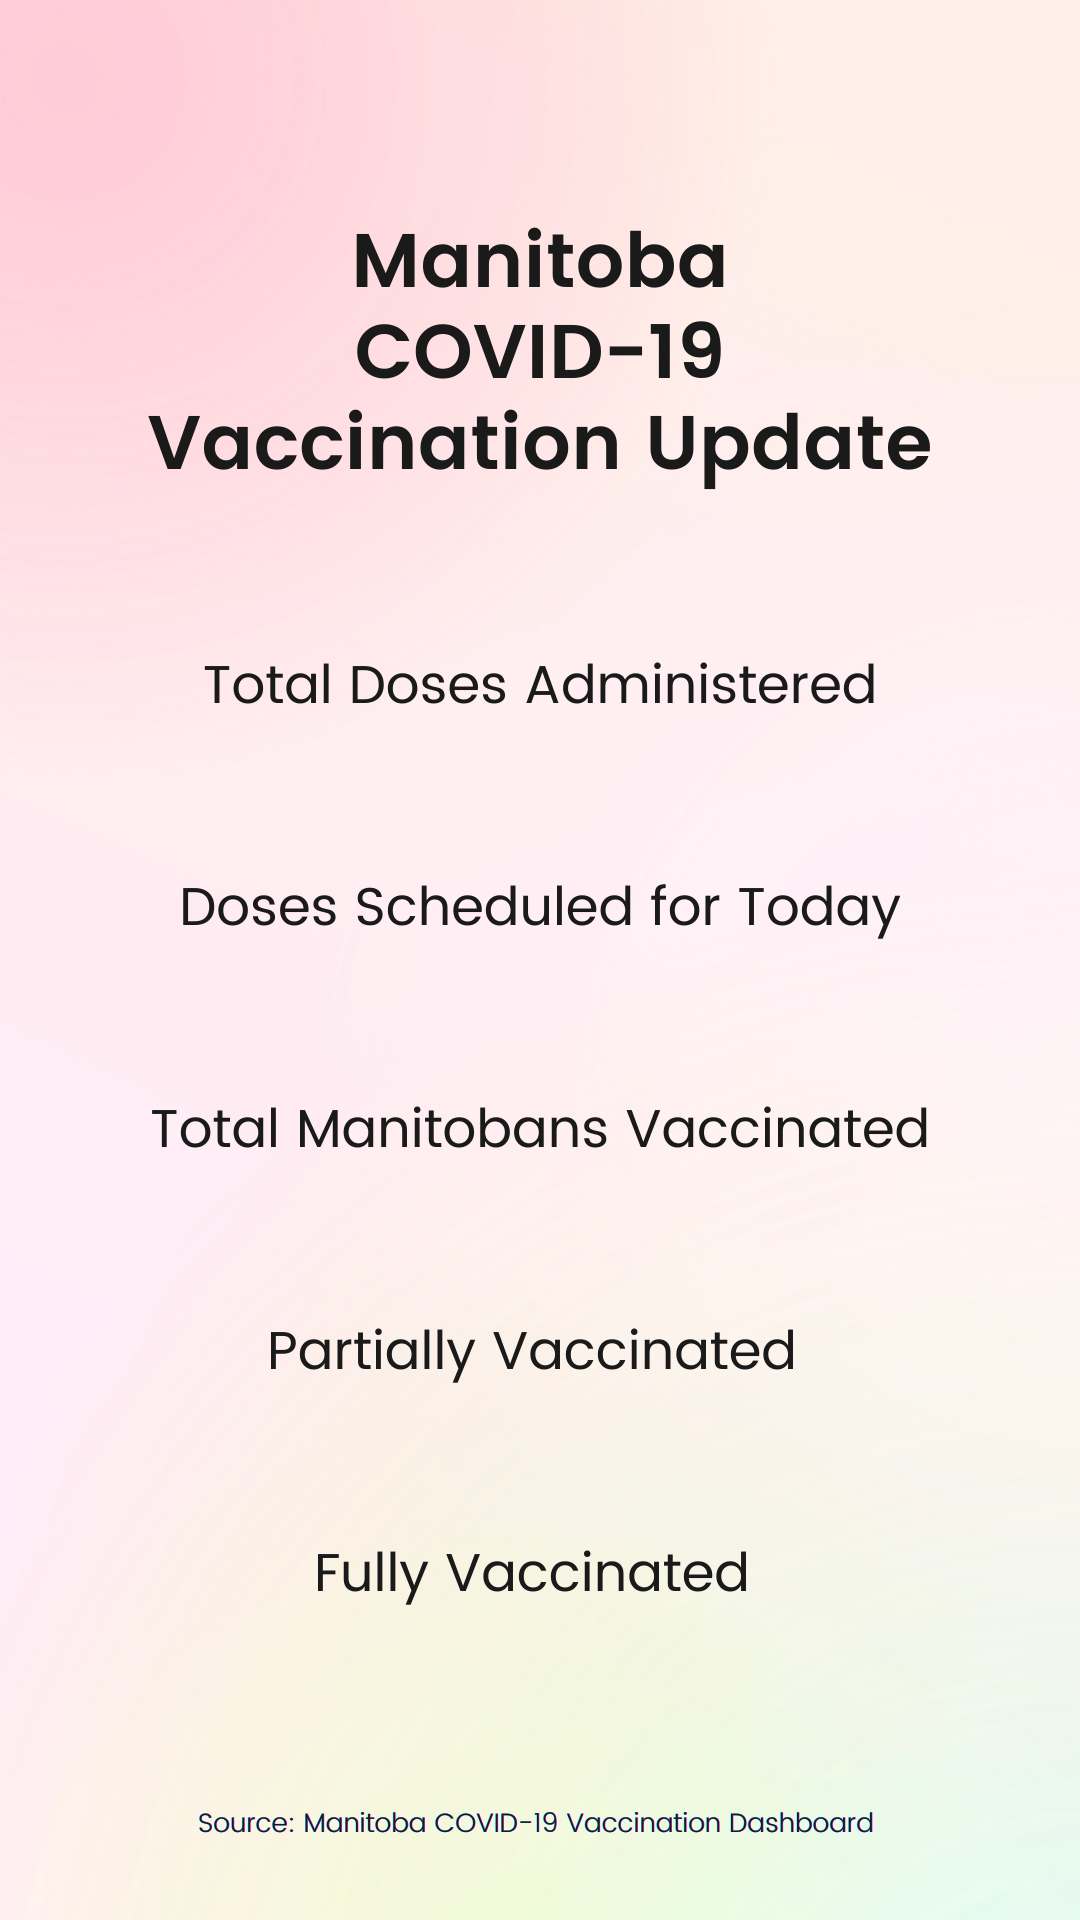
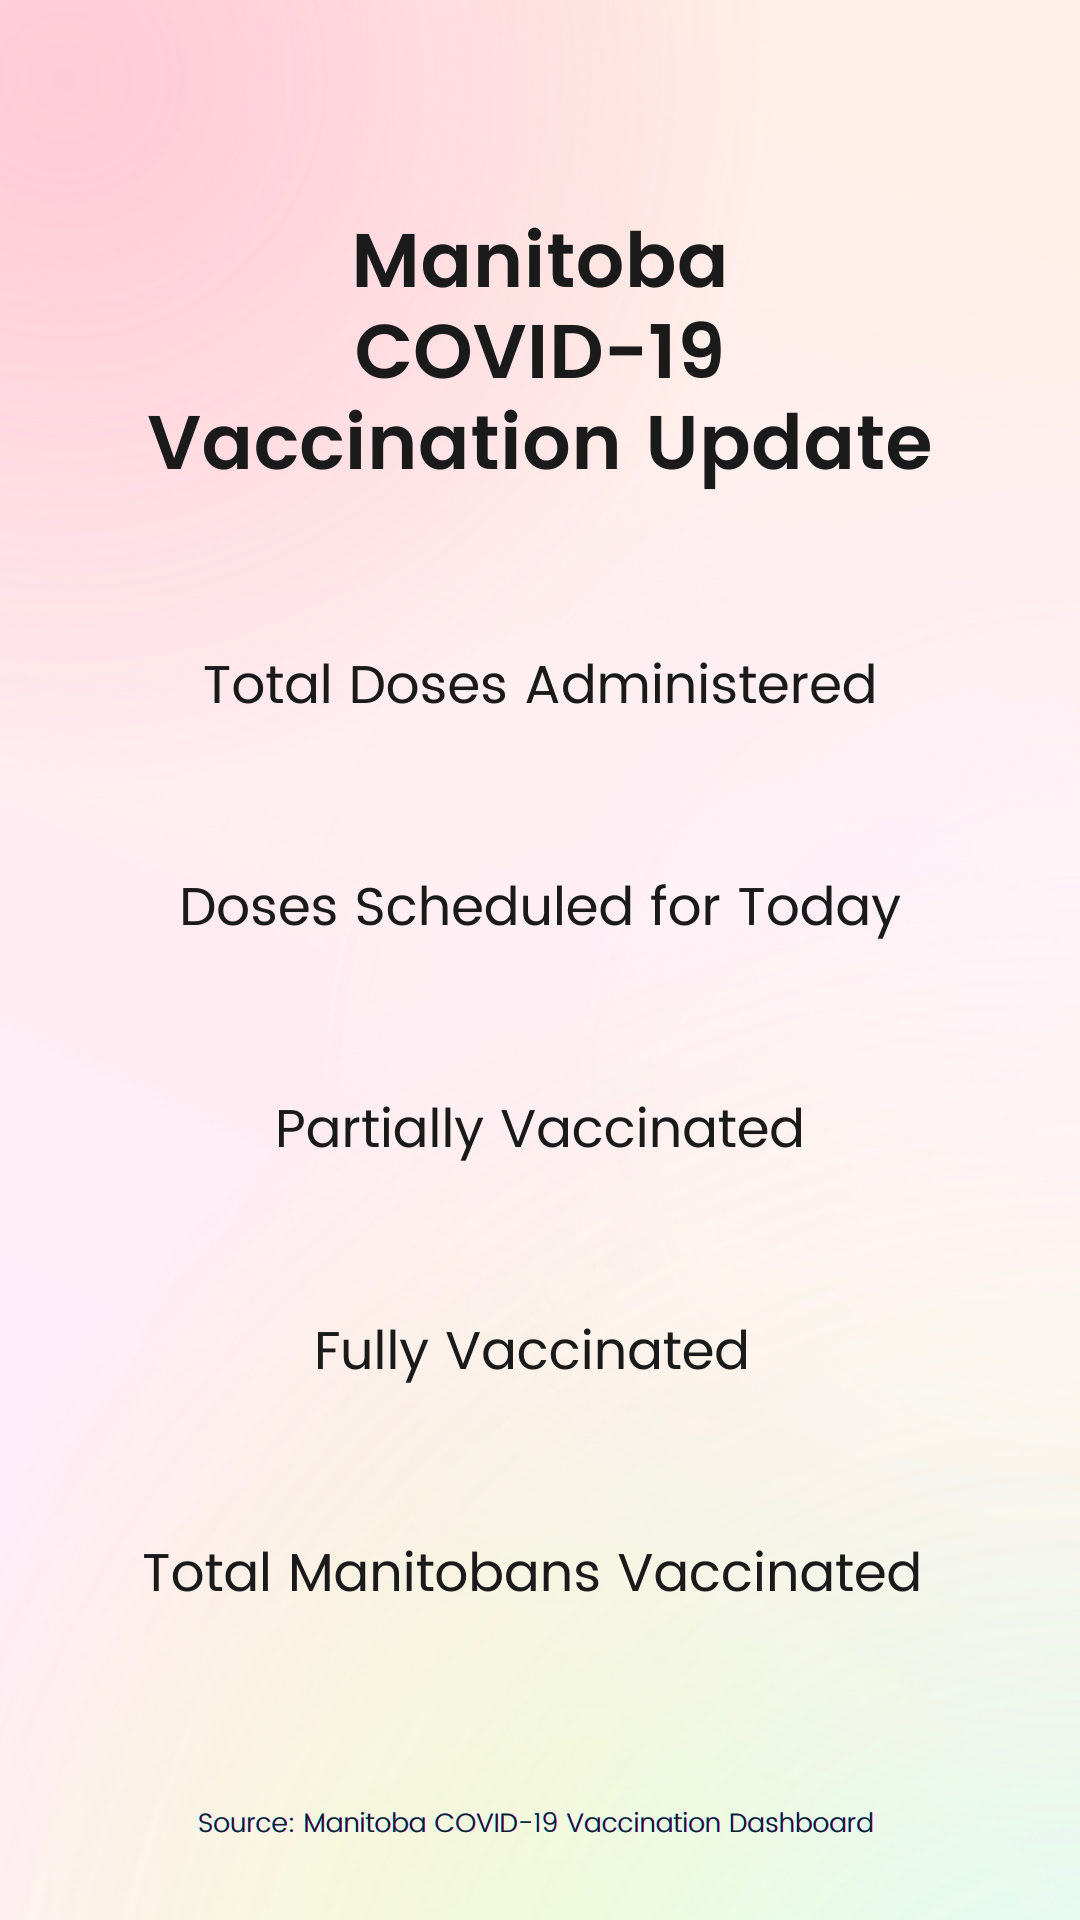
Update template and ask for new deaths

Changed region(s): [[0.1528, 0.5625, 0.8556, 0.625], [0.1528, 0.8125, 0.8556, 0.8438], [0.2444, 0.6875, 0.7333, 0.7188]]

diff --git a/src/services/image.py b/src/services/image.py
@@ -10,7 +10,7 @@ class ImageService:
         self.font = ImageFont.truetype("./resources/Poppins-Light.ttf", 60)
         self.date_font = ImageFont.truetype("./resources/Poppins-Light.ttf", 40)
 
-    def get_daily_cases_image(self):
+    def get_daily_cases_image(self, new_deaths):
         self.image = Image.open("./resources/template-cases.png")
         self.draw = ImageDraw.Draw(self.image)
         self.width, self.height = self.image.size
@@ -21,7 +21,7 @@ class ImageService:
         self.__write_active_cases()
         self.__write_total_cases()
         self.__write_recovered()
-        self.__write_deaths()
+        self.__write_deaths(new_deaths)
 
         return self.image
 
@@ -44,7 +44,7 @@ class ImageService:
         msg = str(self.data["Last_Update"])
     
         w, h = self.draw.textsize(msg, font=self.date_font)
-        size = ((self.width-w)/2, 485) # 225
+        size = ((self.width-w)/2, 485) # delta = 225
 
         self.draw.text(size, msg, fill="black", font=self.date_font)
 
@@ -52,7 +52,7 @@ class ImageService:
         msg = str('{:,}'.format(self.data["Total_Doses_Administered"]))
     
         w, h = self.draw.textsize(msg, font=self.font)
-        size = ((self.width-w)/2, 725) # 225
+        size = ((self.width-w)/2, 725)
 
         self.draw.text(size, msg, fill="black", font=self.font)
 
@@ -60,7 +60,7 @@ class ImageService:
         msg = str('{:,}'.format(self.data["New_Cases"]))
     
         w, h = self.draw.textsize(msg, font=self.font)
-        size = ((self.width-w)/2, 725) # 225
+        size = ((self.width-w)/2, 725)
 
         self.draw.text(size, msg, fill="black", font=self.font)
     
@@ -80,14 +80,6 @@ class ImageService:
 
         self.draw.text(size, msg, fill="black", font=self.font)
 
-    def __write_total_vaxx(self):
-        msg = str('{:,}% (18+) / {:,}% (12+)'.format(self.data["Per_cent_All_Immunized_18"], self.data["Per_cent_All_Immunized_12"]))
-    
-        w, h = self.draw.textsize(msg, font=self.font)
-        size = ((self.width-w)/2, 1175)
-
-        self.draw.text(size, msg, fill="black", font=self.font)
-
     def __write_total_cases(self):
         msg = str('{:,}'.format(self.data["Total_Cases"]))
     
@@ -100,7 +92,7 @@ class ImageService:
         msg = str('{:,}% (18+) / {:,}% (12+)'.format(self.data["Per_cent_Partially_Immunized_18"], self.data["Per_cent_Partially_Immunized_12"]))
     
         w, h = self.draw.textsize(msg, font=self.font)
-        size = ((self.width-w)/2, 1400)
+        size = ((self.width-w)/2, 1175)
 
         self.draw.text(size, msg, fill="black", font=self.font)
     
@@ -116,12 +108,22 @@ class ImageService:
         msg = str('{:,}% (18+) / {:,}% (12+)'.format(self.data["Per_cent_Fully_Immunized_18"], self.data["Per_cent_Fully_Immunized_12"]))
     
         w, h = self.draw.textsize(msg, font=self.font)
+        size = ((self.width-w)/2, 1400)
+
+        self.draw.text(size, msg, fill="black", font=self.font)
+
+    def __write_total_vaxx(self):
+        msg = str('{:,}% (18+) / {:,}% (12+)'.format(self.data["Per_cent_All_Immunized_18"], self.data["Per_cent_All_Immunized_12"]))
+    
+        w, h = self.draw.textsize(msg, font=self.font)
         size = ((self.width-w)/2, 1625)
 
         self.draw.text(size, msg, fill="black", font=self.font)
     
-    def __write_deaths(self):
+    def __write_deaths(self, new_deaths):
         msg = str('{:,}'.format(self.data["Deaths"]))
+        if new_deaths != None:
+            msg = str('{:,} / +{} new deaths'.format(self.data["Deaths"], new_deaths))
     
         w, h = self.draw.textsize(msg, font=self.font)
         size = ((self.width-w)/2, 1625)

diff --git a/src/routes/images.py b/src/routes/images.py
@@ -3,6 +3,7 @@ import flask
 import base64
 
 from io import BytesIO
+from flask import request
 from flask import Blueprint
 from flask import send_file
 from flask_cors import CORS
@@ -19,7 +20,9 @@ imageService = ImageService()
 @cross_origin()
 def get_image_cases():
     code = HttpCodes.HTTP_200_OK
-    image = imageService.get_daily_cases_image()
+    new_deaths = request.args.get("new_deaths", type=int)
+
+    image = imageService.get_daily_cases_image(new_deaths)
 
     if os.environ.get("IS_LAMBDA"):
         # Return a base64 encoded image in plaintext
